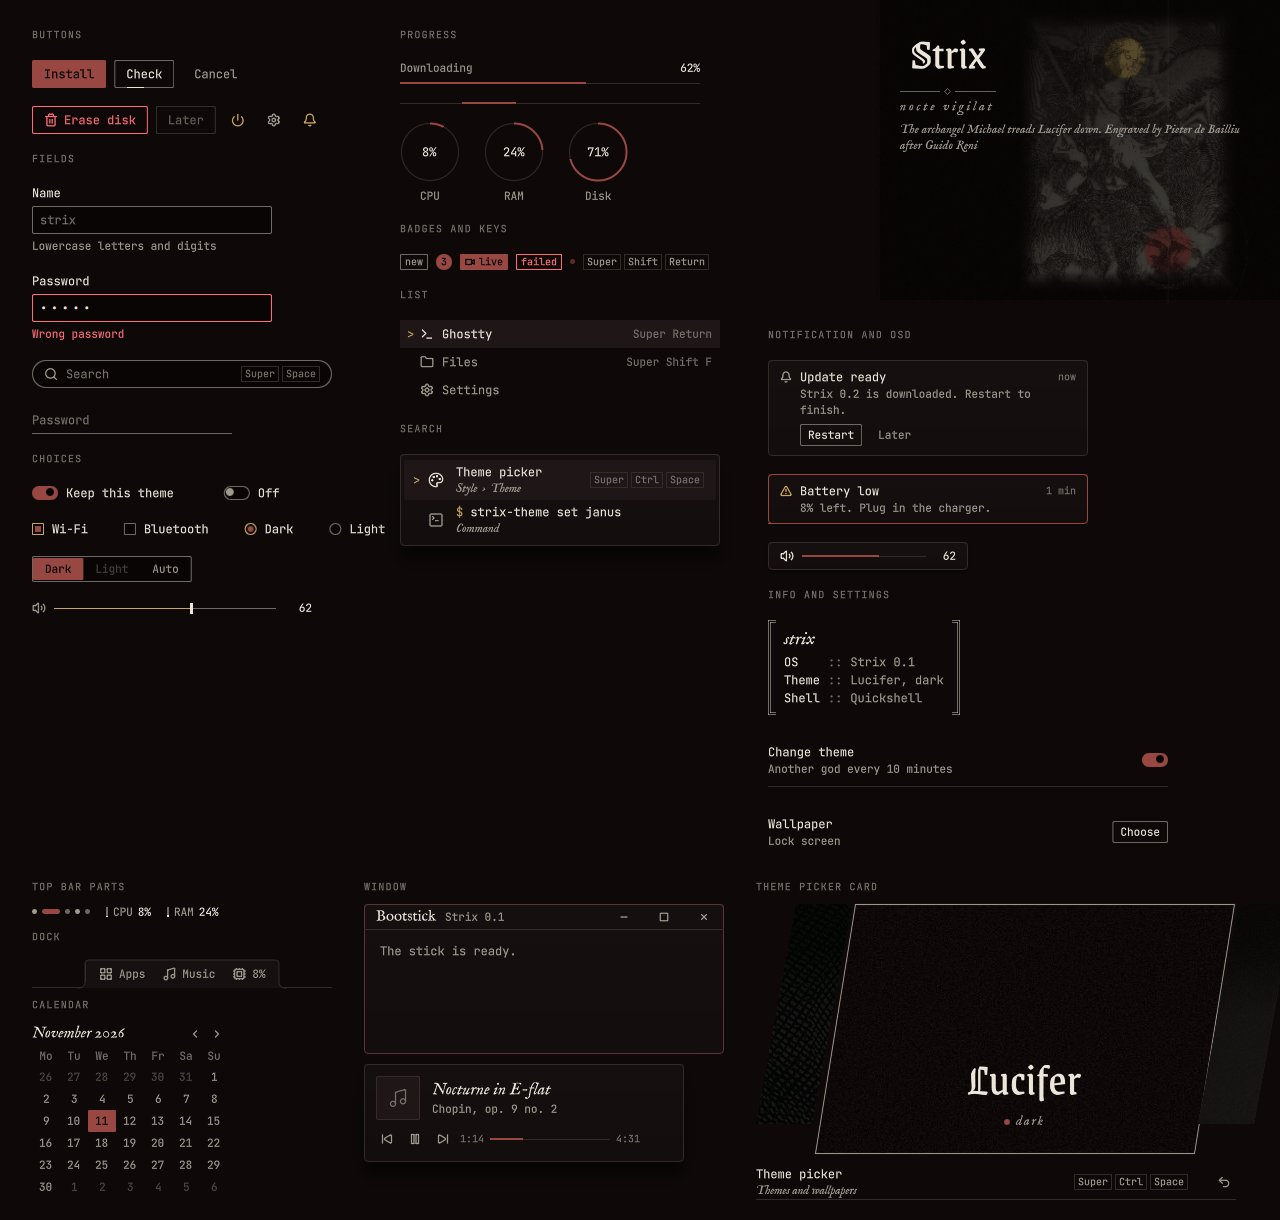
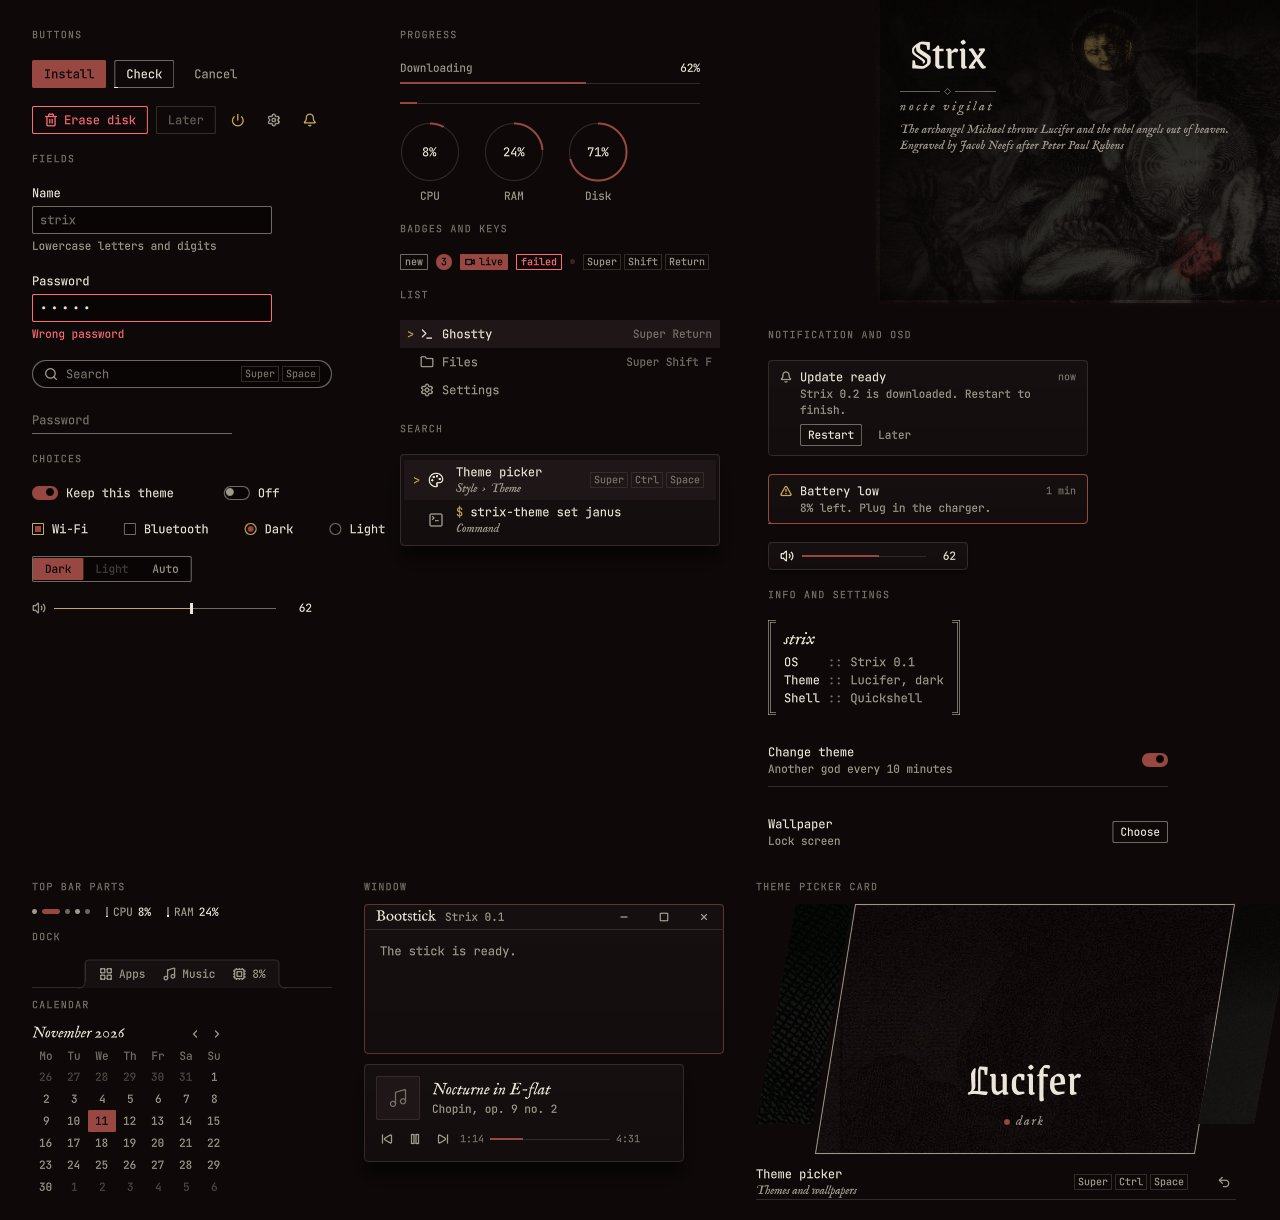
feat: fill the wallpaper with Rubens' Saint Michael like the gods
Engraving by Jacob Neefs after Rubens: Michael and Lucifer both fit a full 16:9 crop, so the plate fills the screen like the god themes instead of standing on an empty ground.

Changed region(s): [[0.7188, 0.0311, 1.0, 0.2492]]

diff --git a/README.md b/README.md
@@ -1,6 +1,6 @@
 # strix-theme-lucifer
 
-A theme for Strix, outside the eight Roman gods: Lucifer under the foot of the archangel Michael. Two colours: red for Lucifer (`#984742`) fills buttons, progress and his disc; gold for Michael (`#c8a65d`) draws lines and letters (links, carets, focus) and his disc. The grounds are tinted faintly toward the red.
+A theme for Strix, outside the eight Roman gods: Lucifer, thrown down by the archangel Michael. Two colours: red for Lucifer (`#984742`) fills buttons, progress and his disc; gold for Michael (`#c8a65d`) draws lines and letters (links, carets, focus) and his disc. The grounds are tinted faintly toward the red.
 
 ![The wallpaper](themes/lucifer/wallpaper.jpg)
 
@@ -8,7 +8,7 @@ A theme for Strix, outside the eight Roman gods: Lucifer under the foot of the a
 
 ## Picture
 
-Pieter de Bailliu (I) after Guido Reni, The Archangel Michael Tramples Satan, Rome, 1623 to 1660, published by Giovanni Battista de' Rossi. Rijksmuseum RP-P-BI-486, public domain. The whole scene is set on a ground of ink and printed in the inks of the theme, with a gold disc around Michael's head and a red one around Lucifer's, by `tools/pack.py` of StrixUI.
+Jacob Neefs after Peter Paul Rubens, S. Michael, Antwerp, 1620 to 1680, published by Gilles Hendricx. Rijksmuseum RP-P-OB-23.930, public domain. Michael with the shield of God throws Lucifer out of heaven. Cropped to both of them and printed in the inks of the theme, like the plates of the gods, with a gold disc around Michael's head and a red one around Lucifer's, by `tools/pack.py` of StrixUI.
 
 ## Use it
 
